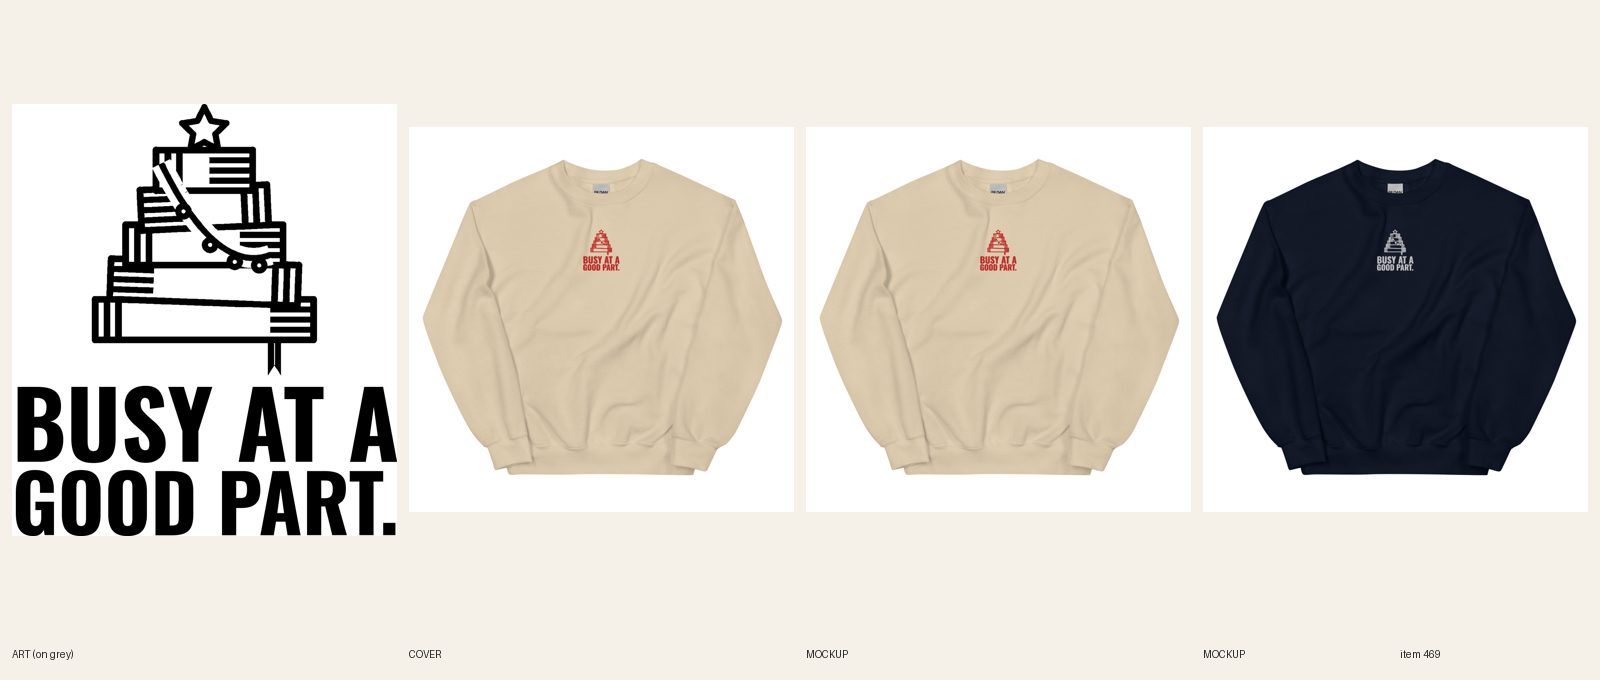
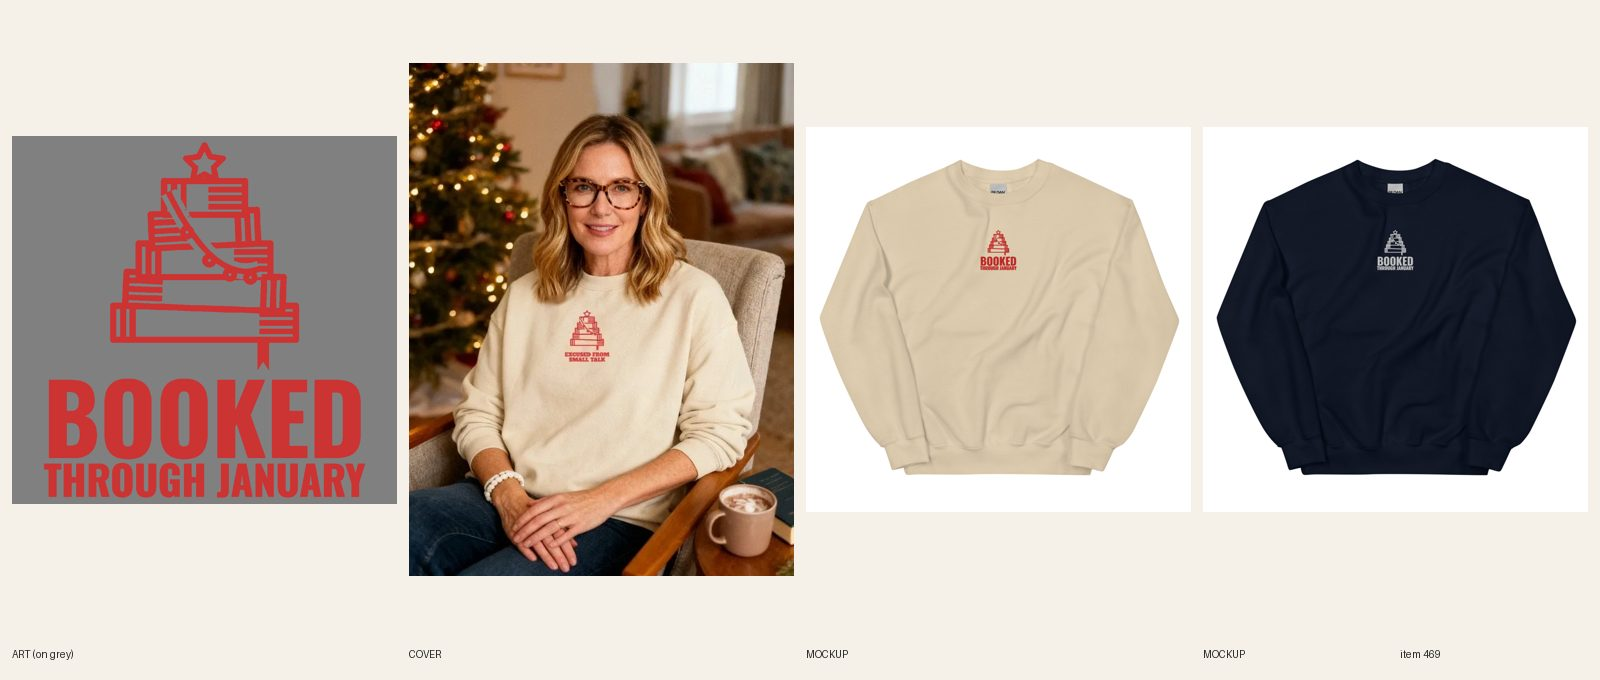
[B] review 455 (dreidel faces plain) + 469 (BOOKED / THROUGH JANUARY)

Changed region(s): [[0.0, 0.0926, 0.5, 0.8647], [0.8438, 0.3397, 0.9062, 0.4015], [0.5938, 0.3706, 0.6562, 0.4015]]

diff --git a/docs/pipeline/469-christmas-crew-excused-from-small-talk.md b/docs/pipeline/469-christmas-crew-excused-from-small-talk.md
@@ -1,4 +1,4 @@
-status: REDO
+status: REVIEW
 lane: B
 type: new
 id: 469
@@ -41,3 +41,4 @@ kd: 50
 - 2026-10-18 17:22 UTC director: QUALITY RESET grade C (new line + type), REDO. The product stays ACTIVE (same handle, URL, title keyword). 1. Line (R3.12, quality-reset 'Lines'): "EXCUSED FROM / SMALL TALK": Mild statement, no twist; book-tree connection needs explaining. Write 5 candidates, keep the one a stranger laughs at in 3 seconds without backstory; kill lines that only describe the picture; if none of the 5 is funny, PARK it. 2. Quality reset type bar (docs/backlog/quality-reset.md, 'The new bar'): headline at least 90% of the art width, heavy, colors pulled from the art; second line at least 45% of the headline's height, never a thin script on a dark or mid garment; use the lettering as a shape (arch, stacked lockup, words breaking into the art), not a plain bar above and a script line below; no font used on more than 1 in 6 of the last 30 designs. 3. Keep the art if it carries the new line, else one new illustration (R4/R5). New print means a new cover per R6.10, copy line one rewritten for the new joke (R8.3), and a fresh review sheet (R7.7). While quality-reset.md says PAUSED, only lane A builds, and only the samples step 2 names.
 - 2026-10-20 06:47 UTC builder [B]: REDO 469 round 2 (director): NEW LINE BUSY AT A / GOOD PART. (5 candidates: BUSY AT A / GOOD PART.; Excused From Small Talk (old, mild statement); Booked Through January; One More Chapter, Then Christmas; Do Not Disturb, Reading). Kept the first: the reader at the family party, a stranger gets it in 3 seconds, the book tree proves it. Same book-stack tree (cropped above the old words), new Oswald 700 lettering only, no fal $0; emb-prep 3.33 x 3.78 in, thinnest stroke 1.52 mm, capitals about 0.5 in tall. Thread Sand #CC3333 red, Navy #FFFFFF white (red sank on Navy). Cover: handle added to retired-covers.json. Title, SEO, copy, FAQs, alts rewritten. Widths headline BUSY AT A 1000 px / punch GOOD PART. 1000 px (equal width, embroidery file). Phone read ok. all 12 embroidery variants synced on the new file per color, fronts replaced in place, copy unchanged. fal $0. Sheet docs/review/469.jpg.
 - 2026-10-20 07:55 UTC director: REDO from docs/review/469.jpg. Type and stitch size pass (Oswald 700, caps about 0.5 in). 1. R13.3 (would a merchandiser ship this?): BUSY AT A / GOOD PART. repeats the punch of #486 (NOT IGNORING YOU. / JUST AT A GOOD PART.), redone 4 minutes apart by another lane; both are embroidered bookish crewnecks on the same grids, so one has to change. #486 keeps it (the goose with the book). 2. New line for the book-stack tree, from your own list: BOOKED / THROUGH JANUARY. (real second meaning, R3.1; the Christmas tree made of books proves it) is the pick; check it against 3 R3.13 lines first. Same art, new lettering only ($0), stitch sizes measured (R4.8), title/SEO/copy line one to the new line (builder 7i), fresh sheet.
+- 2026-10-20 07:55 UTC builder [B]: REDO 469 round 3 (director R13.3): NEW LINE BOOKED / THROUGH JANUARY. (the director's pick from the round-2 list; second meaning is real, the book-stack tree proves it; checked against Main Character, Background Energy / Lift Heavy. Reply Later. / Politely, No.: short, self-aware, same twist-in-the-wearer's-voice; no repeat of any other product's punch). Same book-stack tree, new Oswald 700 lettering only, fal $0. Widths headline BOOKED 2197 px / punch THROUGH JANUARY 2197 px (equal width, src px; both 1000 px in the stitch file). emb-prep 3.33 x 3.69 in, thinnest stroke 1.52 mm, THROUGH JANUARY caps about 0.35 in (over the 0.25 in floor), BOOKED about 0.83 in. Threads Sand #CC3333, Navy #FFFFFF. Sand file 1090237592, Navy file 1090237605 (docs/print-files/469-booked.png is the black-on-white source), pf-emb-sync flat 12/12, Sand + Navy fronts replaced in place. Title now Women's Christmas – Embroidered Booked Through January Crewneck Sweatshirt (handle unchanged), SEO title/meta, Story line one, FAQ names and alts rewritten. Cover stays the plain product shot (retired-covers). Fresh sheet docs/review/469.jpg.

diff --git a/docs/pipeline/455-hanukkah-crew-spin-responsibly.md b/docs/pipeline/455-hanukkah-crew-spin-responsibly.md
@@ -1,4 +1,4 @@
-status: REDO
+status: REVIEW
 lane: B
 type: new
 id: 455
@@ -36,3 +36,4 @@ kd: 17
 - 2026-10-18 17:22 UTC director: QUALITY RESET grade C (new line + type), REDO. The product stays ACTIVE (same handle, URL, title keyword). 1. Line (R3.12, quality-reset 'Lines'): "SPIN / RESPONSIBLY": Groan pun on "drink responsibly"; art panel has no type, small headline. Write 5 candidates, keep the one a stranger laughs at in 3 seconds without backstory; kill lines that only describe the picture; if none of the 5 is funny, PARK it. 2. Quality reset type bar (docs/backlog/quality-reset.md, 'The new bar'): headline at least 90% of the art width, heavy, colors pulled from the art; second line at least 45% of the headline's height, never a thin script on a dark or mid garment; use the lettering as a shape (arch, stacked lockup, words breaking into the art), not a plain bar above and a script line below; no font used on more than 1 in 6 of the last 30 designs. 3. Keep the art if it carries the new line, else one new illustration (R4/R5). New print means a new cover per R6.10, copy line one rewritten for the new joke (R8.3), and a fresh review sheet (R7.7). While quality-reset.md says PAUSED, only lane A builds, and only the samples step 2 names.
 - 2026-10-20 06:44 UTC builder [B]: REDO 455 round 2 (director): NEW LINE LOST MY GELT / TO A TOP. (5 candidates: LOST MY GELT / TO A TOP.; Spin Responsibly (old, groan pun); Dreidel Champion, Allegedly; Gelt Today, Gone Tomorrow; One More Spin. Then Bed. Kept the first: relatable family-game loss, the gelt pile proves it, clean and kind). New art: 2 Recraft calls ($0.08; try 1 blank faces looked like Hebrew-like cutouts and was rejected under R5.3.9, try 2 plain patches kept, no letters or stars on any face). Cinzel 900 (5 prior uses). Navy cream + gold with thin cream halo, Sport Grey light file: headline blue, punch brown. Title, SEO, copy, FAQs and alts rewritten, handle unchanged. Cover: handle added to retired-covers.json (old cover shows the old words). Widths headline 3090 px / punch 3090 px (equal width, punch taller). Phone read ok. FW 1650 TOP 0, every variant synced on the new file, fronts replaced in place, copy unchanged. fal $0. Sheet docs/review/455.jpg.
 - 2026-10-20 07:55 UTC director: REDO from docs/review/455.jpg. Line and type pass (LOST MY GELT / TO A TOP. equal width, reads on Navy and Sport Grey). 1. R5.3.9 (sacred and cultural objects exact or absent): the two dreidel faces carry an orange blob and a blue hooked mark sitting exactly where the letters go; at 200% the blue one reads as a misshapen shin/gimel, which is the fake-Hebrew failure Sam flagged on Fried Food Is Tradition. Fix in print-prep, no fal: paint both patches out to the face's own blues (plain faces with the existing hatch lines), keep everything else. 2. Re-export Navy and Sport Grey files, re-link (log ids and counts), replace the 2 fronts in place, fresh sheet. Note R3.15: this is one of the existing Hanukkah products Sam said to leave up; fix this print only, no new Hanukkah work.
+- 2026-10-20 07:50 UTC builder [B]: REDO 455 round 3 (director R5.3.9, no fal $0): both dreidel face marks painted out in print-prep (orange blob on the left face, blue hooked mark on the right face; inpainted, filled with each face's own blue, a few white hatch strokes re-drawn to match the existing hatching). Faces are now plain at 200%: no letter, no star, no mark. Everything else (LOST MY GELT / TO A TOP., coins, layout) unchanged; ink widths headline 3090 px / punch 3090 px. Navy file 1090236634, Sport Grey file 1090236680 (docs/print-files/455-gelt.png), FW 1650 TOP 0, 12/12 relinked, the 2 fronts replaced in place (fileUpdate, variant links and alts kept). Title unchanged (already Lost My Gelt to a Top). Fresh sheet docs/review/455.jpg. R3.15: print fix only, no new Hanukkah work.

diff --git a/docs/cohesion-audit.md b/docs/cohesion-audit.md
@@ -1,4 +1,4 @@
-# Cohesion audit — 2026-10-20 06:46 UTC
+# Cohesion audit — 2026-10-20 07:38 UTC
 
 609 live products checked · **0 errors** · 31 warnings · 29 products with findings
 
@@ -49,9 +49,9 @@ ERROR = a shopper or Google would see something wrong (wrong person, wrong garme
 - **WARN** Non-holiday design (black friday) listed in "Funny Thanksgiving Shirts". → Only keep it there if the art is genuinely for that holiday.
 
 ### Women's Capybara – Per My Last Email, I'm Soaking Oversized Hoodie `womens-capybara-out-of-office-soaking-oversized-hoodie`
-- **WARN** No SEO title. → Write one ≤ 60 chars with the primary keyword.
+- **WARN** No meta description. → Write one ≤ 155 chars.
 
-### Women's Axolotl – Smiling Through It Oversized Hoodie `womens-axolotl-smiling-through-it-oversized-hoodie`
+### Women's Axolotl – I'm Fine, Just a Little Rain Oversized Hoodie `womens-axolotl-smiling-through-it-oversized-hoodie`
 - **WARN** "axolotl hoodie" appears 7× in the copy (keyword stuffing). → Use it once or twice, naturally.
 
 ### Women's Coffee – Espresso Yourself Hoodie `womens-coffee-espresso-yourself-hoodie`
@@ -85,7 +85,7 @@ ERROR = a shopper or Google would see something wrong (wrong person, wrong garme
 - **WARN** "pirate hoodie" appears 11× in the copy (keyword stuffing). → Use it once or twice, naturally.
 
 ### Women's Nurse – Embroidered Awake. Regrettably. Crewneck Sweatshirt `womens-nurse-embroidered-night-shift-silly-goose-crewneck-sweatshirt`
-- **WARN** No meta description. → Write one ≤ 155 chars.
+- **WARN** No SEO title. → Write one ≤ 60 chars with the primary keyword.
 
 ### Men's Grandpa – I'm Fixing It Hoodie `mens-grandpa-i-fix-things-after-naps-hoodie`
 - **WARN** No SEO title. → Write one ≤ 60 chars with the primary keyword.

diff --git a/docs/intake-log.md b/docs/intake-log.md
@@ -1,6 +1,6 @@
-RUNNING lane B since 2026-10-20 07:29 UTC
 RUNNING director since 2026-10-20 07:17 UTC
 2026-10-20 07:43 UTC — [A] Builder run: redid #389 Women's Christmas Seasonally Overbooked tee (line+type: SORRY, I'M BOOKED / UNTIL JANUARY., same calendar art, Bowlby One full width, dark file 1090231492 / light file 1090231470, 42/42 relinked, 7 fronts replaced in place, copy updated, plain product shot). REVIEW. fal $0.
+2026-10-20 07:44 UTC — [B] Builder run: REDO round 3 of #455 Unisex Hanukkah Lost My Gelt crewneck (dreidel face marks painted out, Navy file 1090236634 + Sport Grey file 1090236680, FW 1650 TOP 0, 12/12 relinked, 2 fronts replaced in place) and #469 Women's Christmas embroidered crewneck (new line BOOKED / THROUGH JANUARY., headline 2197 / punch 2197 px, Sand file 1090237592 + Navy file 1090237605, 12/12 synced, title/SEO/copy/alts updated). Both REVIEW. #498 left for director (R3.14 note). fal $0.
 RUNNING lane C since 2026-10-20 07:00 UTC
 2026-10-20 07:40 UTC — [C] Builder run: redid #465 Unisex Lawyer hoodie (new line + type: THIS NAP IS / BILLABLE., headline 3185 px / punch 3195 px, Bevan + Alfa Slab, same sleeping-lawyer art, Sand file 1090236655 + Navy file 1090236679, FW 1500 TOP 0, 12/12 relinked, 2 fronts replaced in place, copy + SEO updated). REVIEW. fal $0.
 2026-10-20 07:32 UTC — [C] Builder run: redid #334 Unisex Thanksgiving turkey hoodie (new line + type: NO TURKEY HERE. / JUST A GUY IN A HOODIE., headline 2951 px / punch 3049+3004 px, Alfa Slab + Oswald, same turkey art, Sand file 1090233279 + Navy file 1090233375, FW 1500 TOP 0, 12/12 relinked, 2 fronts replaced in place, copy + SEO updated). REVIEW. fal $0.
